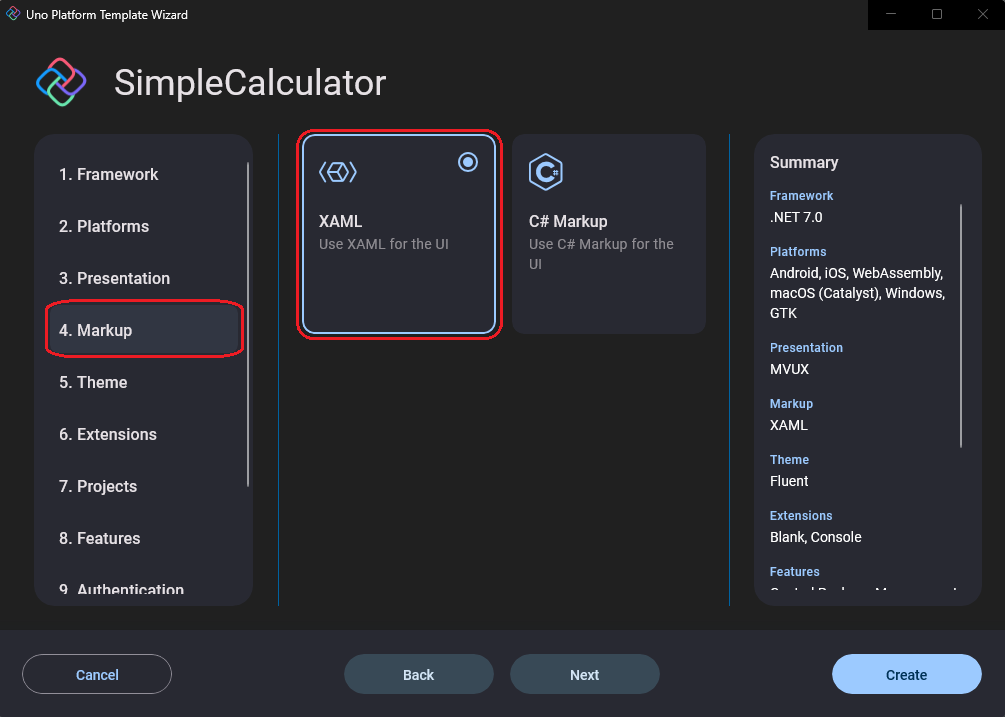
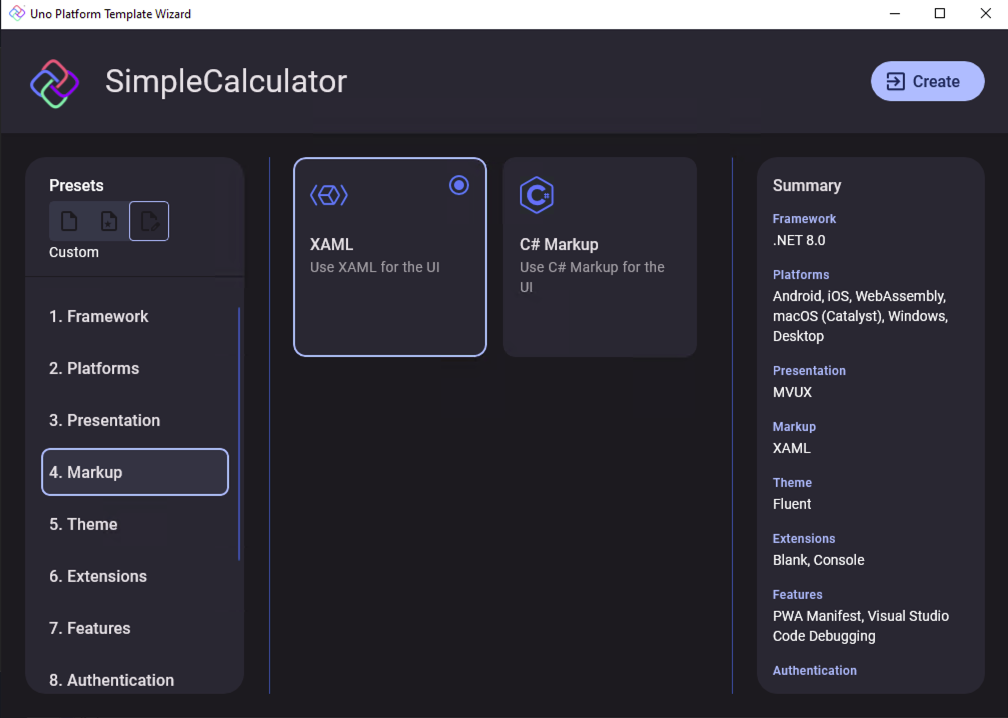
fix: Doc updates - SimpleCalc

diff --git a/simple-calc/modules/Wizard/Intro.md b/simple-calc/modules/Wizard/Intro.md
@@ -17,14 +17,6 @@ Name your app "SimpleCalculator" and choose the folder where you want to save yo
   <img alt="Uno Platform App template" src="../../../art/Light/Wizard/2.naming.png">
 </picture>
 
-In the new Wizard, you'll be prompted to select a preset configuration for your application. The "Default" preset allows you to take advantage of features such as the Material library, the Toolkit, Extensions for Navigation and MVUX, and more. For the moment we’re going to select the "Blank" option and then click "Customize".
-
-<picture>
-  <source media="(prefers-color-scheme: dark)" srcset="../../../art/Dark/Wizard/3.startup.png">
-  <source media="(prefers-color-scheme: light)" srcset="../../../art/Light//Wizard/3.startup.png">
-  <img alt="Uno Platform App template" src="../../../art/Light/Wizard/3.startup.png">
-</picture>
-
 In the first menu option "Framework", let's select **.NET8**.
 
 <picture>
